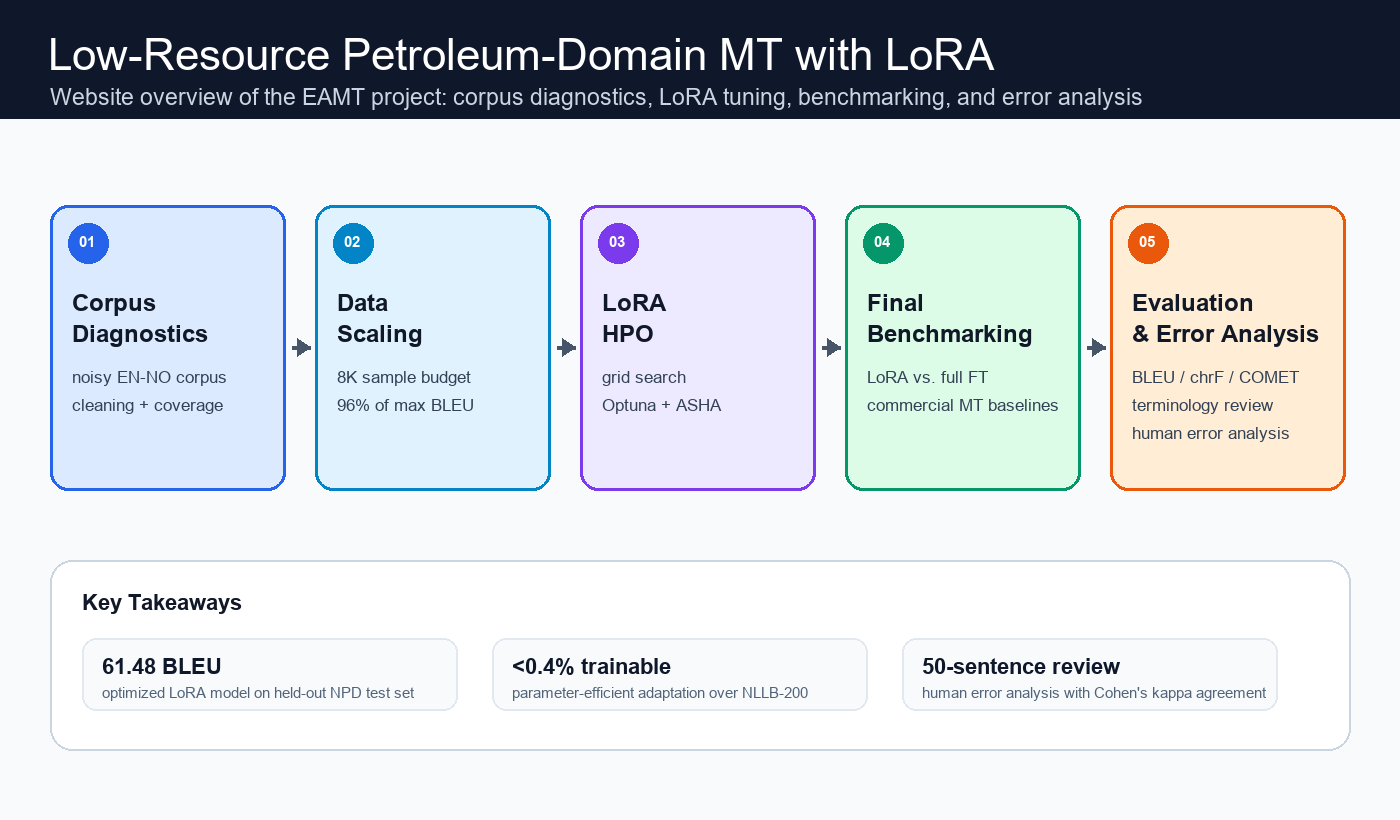
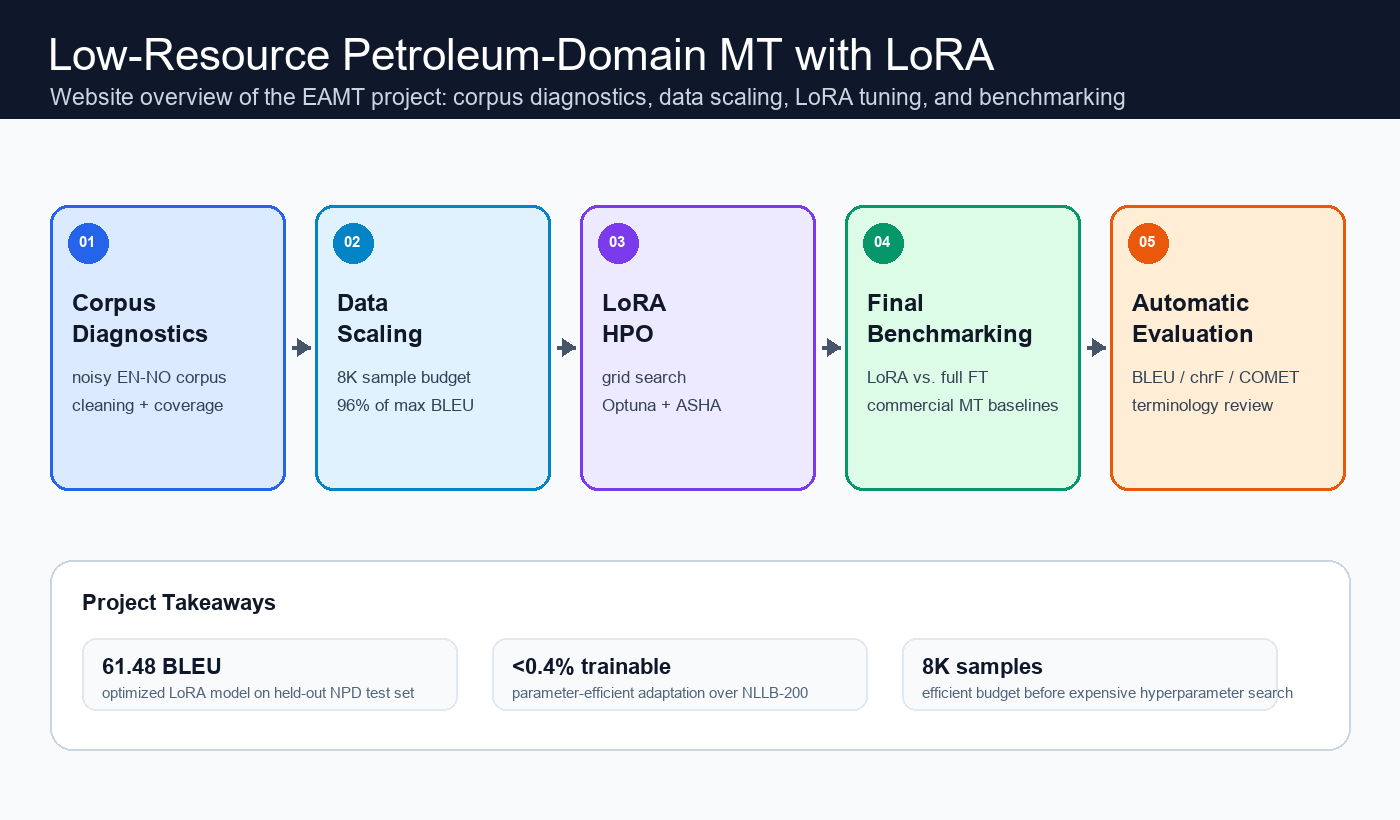
Separate LoRA overview from human error analysis

diff --git a/config/projects.ts b/config/projects.ts
@@ -61,7 +61,7 @@ export const Projects: ProjectInterface[] = [
       {
         title: "Project Overview: Corpus to Evaluation",
         description:
-          "The website overview summarizes the full workflow: corpus diagnostics, data-scaling analysis, dual-track LoRA hyperparameter search, final benchmarking, and evaluation with automatic metrics, terminology review, and human error analysis.",
+          "The website overview summarizes the main experimental workflow: corpus diagnostics, data-scaling analysis, dual-track LoRA hyperparameter search, final benchmarking, and automatic evaluation with BLEU, chrF, COMET, and terminology review.",
         imgArr: ["/projects/lora-nmt-petroleum/cover.png"],
       },
       {
@@ -111,6 +111,12 @@ export const Projects: ProjectInterface[] = [
         description:
           "This comparison evaluates whether the parameter-efficient LoRA setup remains competitive against full fine-tuning across training sizes. The maximum observed gap stays below one BLEU point, supporting LoRA as an efficient alternative for this resource-constrained domain.",
         imgArr: ["/projects/lora-nmt-petroleum/lora_vs_full_ft.png"],
+      },
+      {
+        title: "Human Error Analysis",
+        description:
+          "After the automatic experiments, the paper adds a separate human error analysis: 50 stratified test sentences were manually reviewed across error categories and severity levels, with two annotators and reported Cohen's kappa agreement. This final step shows why BLEU, chrF, and COMET need to be complemented by domain-aware inspection for critical terminology, numeric, and directional errors.",
+        imgArr: ["/projects/lora-nmt-petroleum/human-error-analysis.png"],
       },
     ],
     descriptionDetails: {
